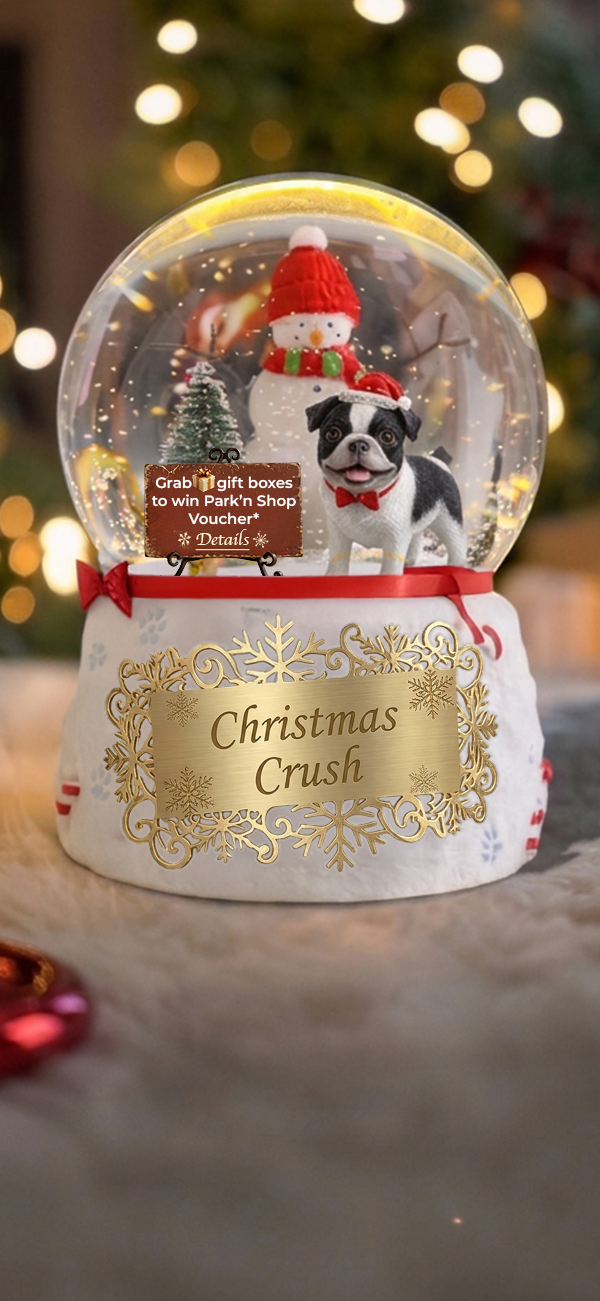
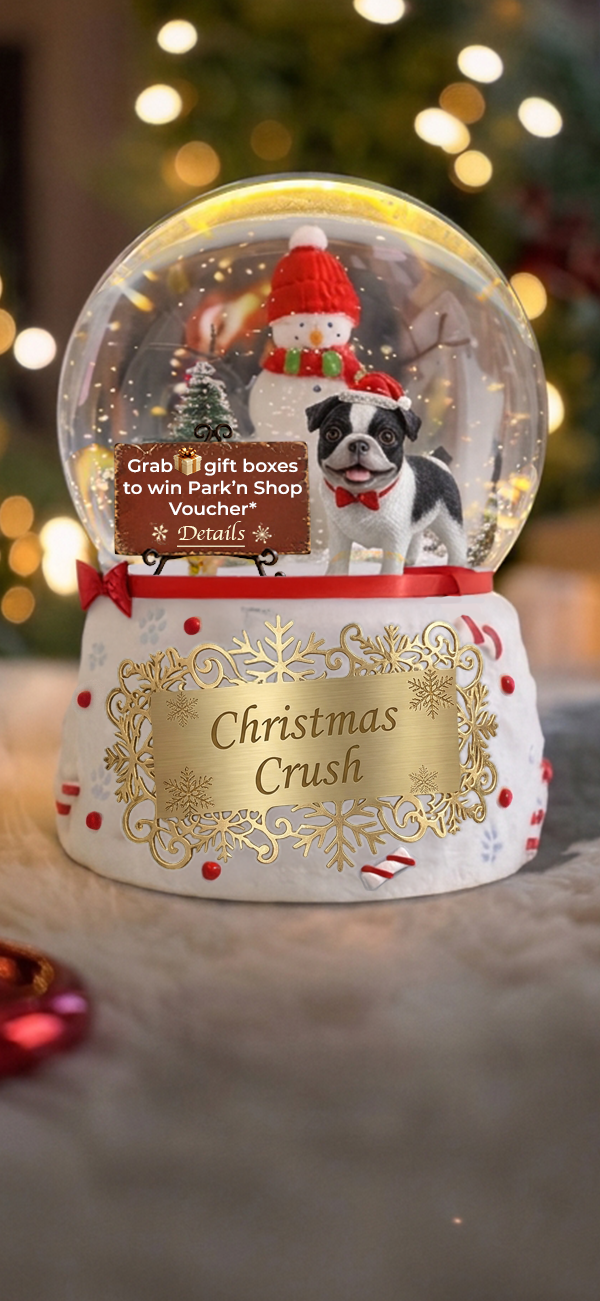
Show the sparkling gift box in How to Play and refresh the cover and end-dialog frame.

diff --git a/src/config/gameConfig.ts b/src/config/gameConfig.ts
@@ -182,7 +182,7 @@ export const gameConfig = {
       // Game elements
       itemHighlightBorder: `${basePath}/images/item-highlight-border.png`,
       itemHighlightStar: `${basePath}/images/item-highlight-star.png`,
-      instructionsAnimation: `${basePath}/images/instructions-animation-xmas.gif?v=nostar`,
+      instructionsAnimation: `${basePath}/images/instructions-animation-xmas.gif?v=gifthigh`,
       instructionsTimeBar: `${basePath}/images/instructions-time-bar.png?v=art`,
       instructionsGiftNumSample: `${basePath}/images/instructions-gift-num-sample.png?v=goldgift`,
       
